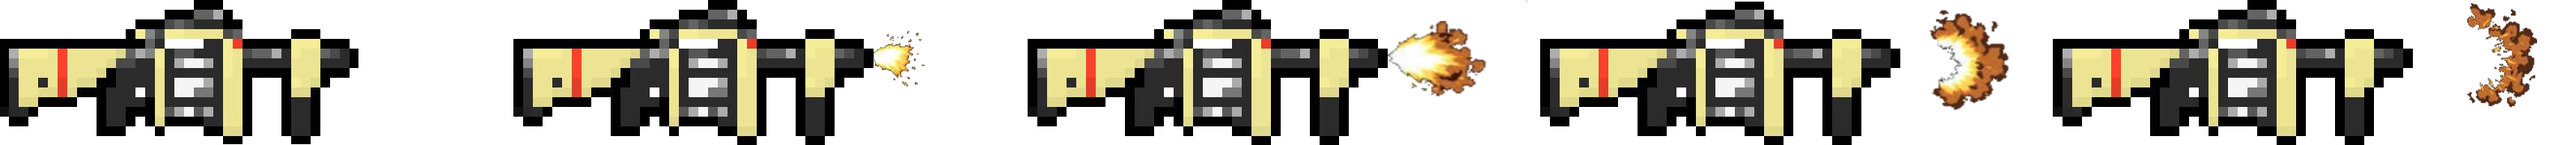
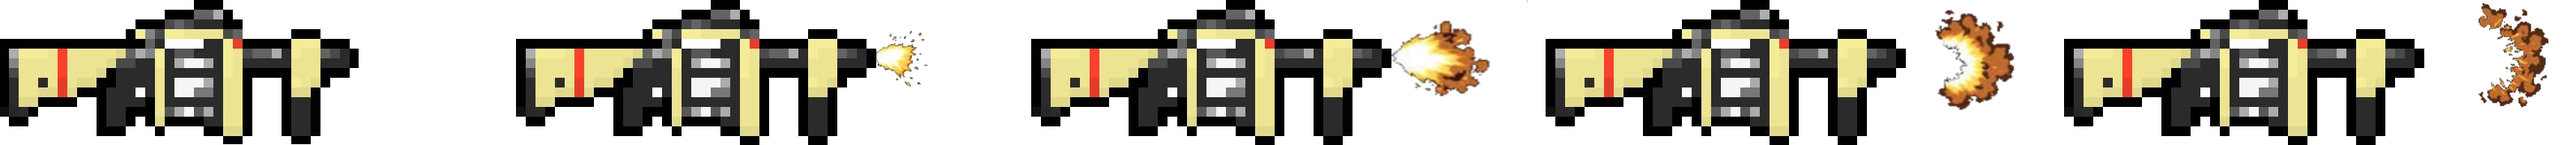
added the guns and their animations and made them play

diff --git a/Physics/Source/SceneCollision.h b/Physics/Source/SceneCollision.h
@@ -79,6 +79,9 @@ protected:
 	int flip;
 	int rotationorder;
 	float companionX, companionY;
+	GameObject* Gun;
+	double GunShootingTimer;
+	Mesh* CurrentGun;
 
 	Vector3 prevPos;
 	Vector3 u1, u2, v1, v2;

diff --git a/Physics/Source/GameObject.h b/Physics/Source/GameObject.h
@@ -20,6 +20,11 @@ struct GameObject
 		GO_PILLAR,
 		GO_POWERUP,
 		GO_COMPANION,
+		GO_SHOTGUN,
+		GO_SNIPER,
+		GO_BOW,
+		GO_PISTOL,
+		GO_GL,
 		GO_TOTAL, //must be last
 	};
 	GAMEOBJECT_TYPE type;

diff --git a/Physics/Source/SceneBase.h b/Physics/Source/SceneBase.h
@@ -82,7 +82,11 @@ public:
 
 
 		GEO_COMPANION,
-
+		GEO_SHOTGUN,
+		GEO_SNIPER,
+		GEO_BOW,
+		GEO_PISTOL,
+		GEO_GL,
 		NUM_GEOMETRY,
 	};
 public:
